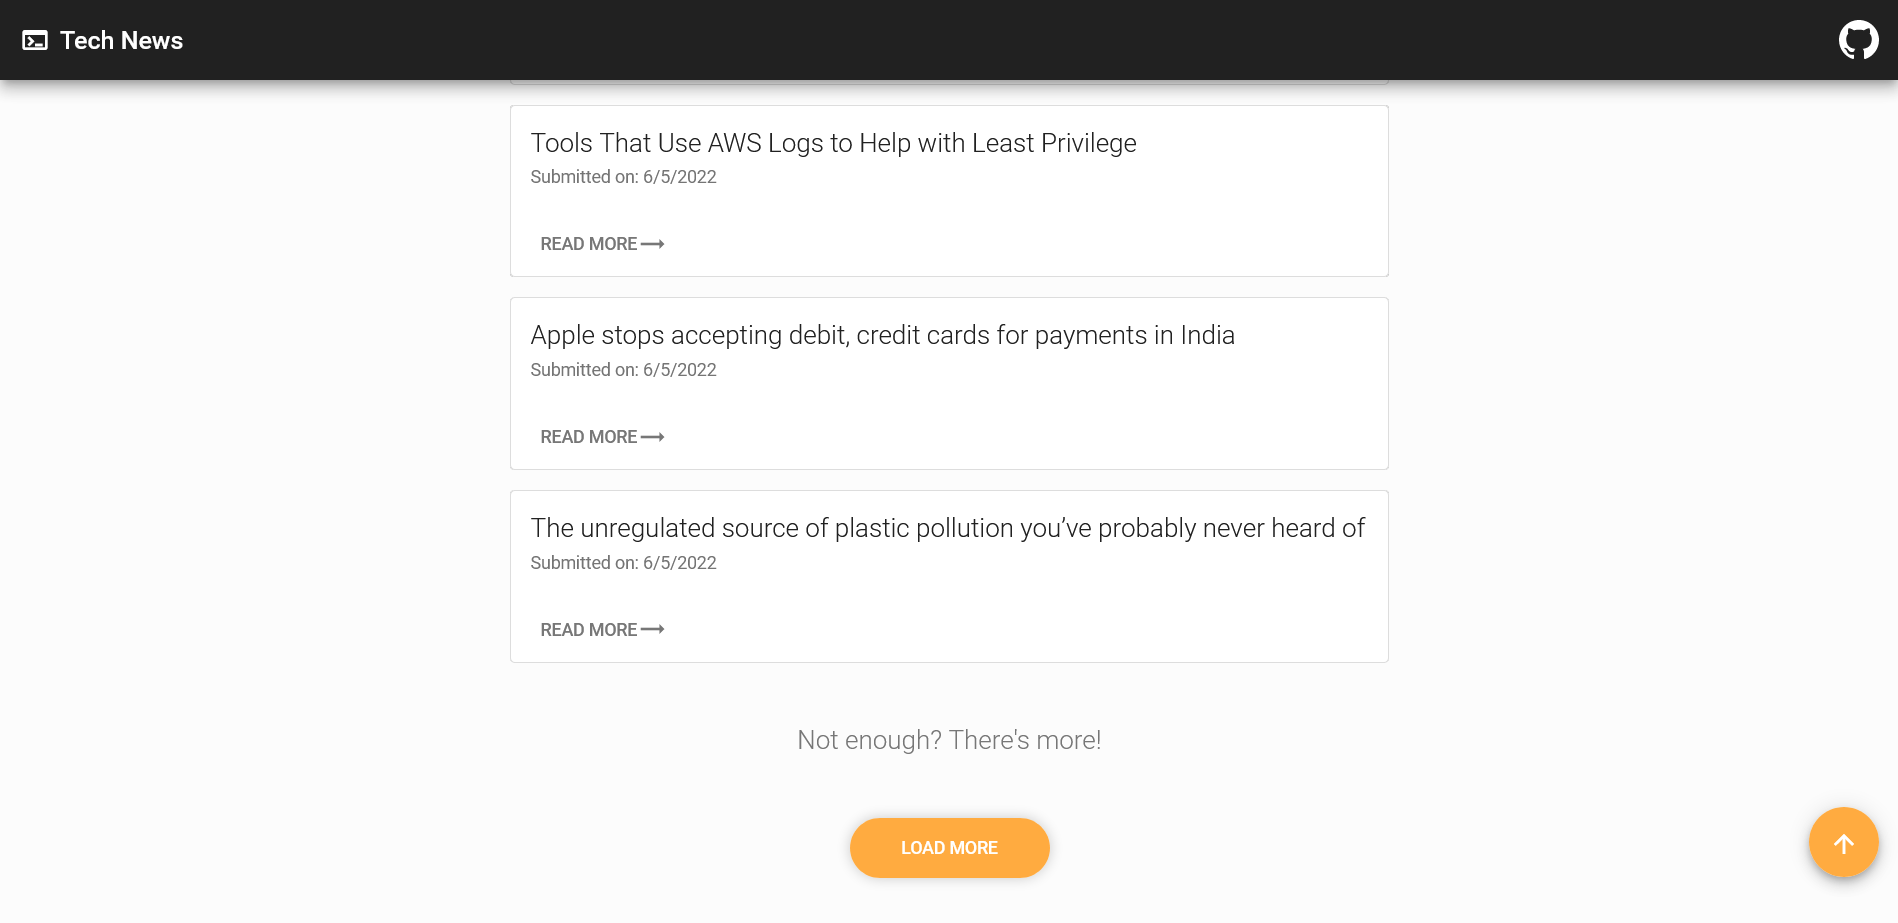
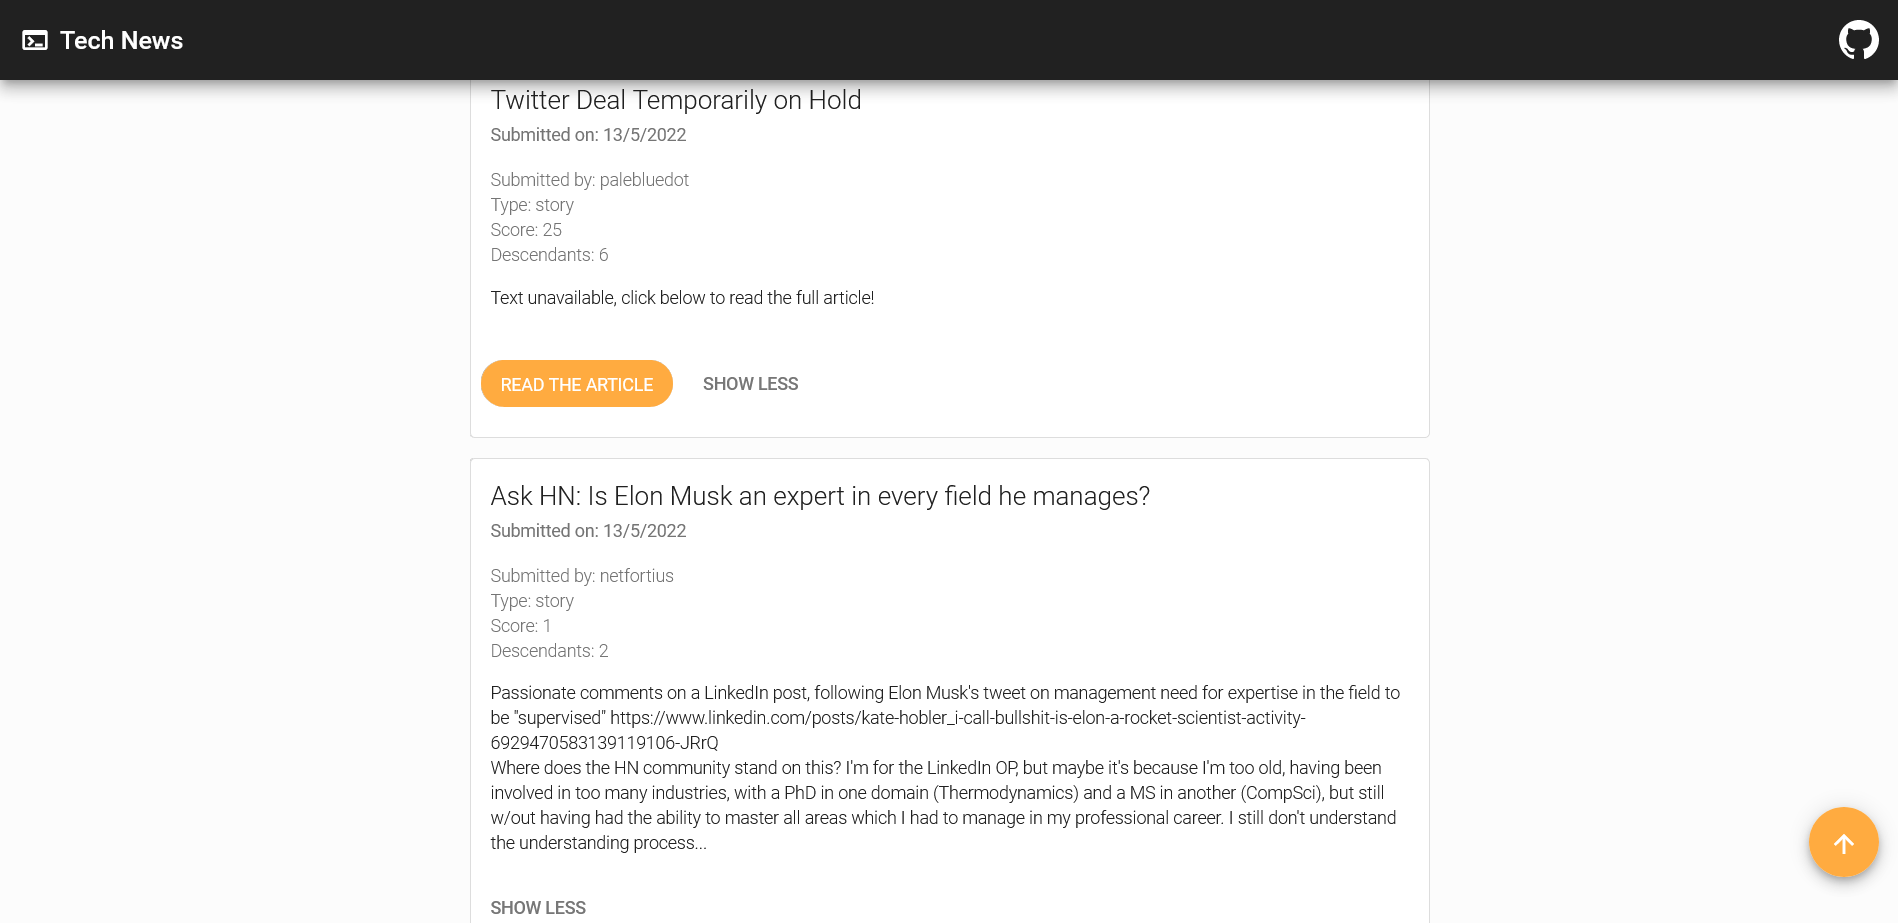
requested details fix

diff --git a/src/app/components/card/card.component.html b/src/app/components/card/card.component.html
@@ -1,11 +1,36 @@
 <mat-card [ngClass]="'mat-elevation-z0'">
   <mat-card-title>{{ newsInfo.title }}</mat-card-title>
   <mat-card-subtitle>Submitted on: {{ formattedNewsTime }}</mat-card-subtitle>
+  <mat-card-content [ngClass]="visibility ? 'contentOpen' : 'contentClosed'">
+    <ul>
+      <li>Submitted by: {{ newsInfo.by }}</li>
+      <li>Type: {{ newsInfo.type }}</li>
+      <li>Score: {{ newsInfo.score }}</li>
+      <li>Descendants: {{ newsInfo.descendants }}</li>
+    </ul>
+    <div
+      class="newsContent"
+      [innerHTML]="
+        newsInfo.text
+          ? newsInfo.text
+          : 'Text unavailable, click below to read the full article!'
+      "
+    ></div>
+  </mat-card-content>
   <mat-card-actions>
-    <button mat-button>
-      <a target="_blank" href="{{ newsInfo.url }}">Read More</a>
-      <!-- <mat-icon>arrow_forward</mat-icon> -->
-      <mat-icon>trending_flat</mat-icon>
+    <button
+      mat-flat-button
+      color="accent"
+      class="newsUrl"
+      [ngClass]="visibility && newsInfo.url ? 'contentOpen' : 'contentClosed'"
+    >
+      <a target="_blank" href="{{ newsInfo.url }}">Read the article</a>
     </button>
+    <button
+      mat-button
+      class="readMoreBtn"
+      [innerText]="visibility ? 'Show less' : 'Show more'"
+      (click)="visibility = !visibility"
+    ></button>
   </mat-card-actions>
 </mat-card>

diff --git a/src/app/components/card/card.component.scss b/src/app/components/card/card.component.scss
@@ -1,0 +1,33 @@
+.contentOpen {
+    display: block;
+}
+
+.contentClosed {
+    display: none;
+}
+
+.newsContent {
+    font-weight: 200;
+}
+
+.newsUrl {
+    margin: 1rem 1rem 1rem 0;
+    font-weight: 400;
+    border-radius: 50px;
+    color:white !important; 
+}
+
+.readMoreBtn {
+    padding: 0;
+}
+
+mat-card-content ul {
+    list-style: none;
+    font-weight: 300;
+    padding: 0;
+    color: rgba(0, 0, 0, 0.54);
+}
+
+mat-card-actions {
+    display: flex;
+}

diff --git a/src/app/components/card/card.component.ts b/src/app/components/card/card.component.ts
@@ -14,7 +14,13 @@ export class CardComponent implements OnInit {
     by: '',
     title: '',
     time: 0,
+    text: '',
+    type: '',
+    score: 0,
+    descendants: 0
   }
+
+  visibility: boolean = false;
 
   formattedNewsTime!: string;
 

diff --git a/src/app/interfaces/News.ts b/src/app/interfaces/News.ts
@@ -4,4 +4,8 @@ export interface News {
     by: string,
     title: string,
     time: number,
+    text?: string
+    type: string,
+    score: number
+    descendants: number
 }
